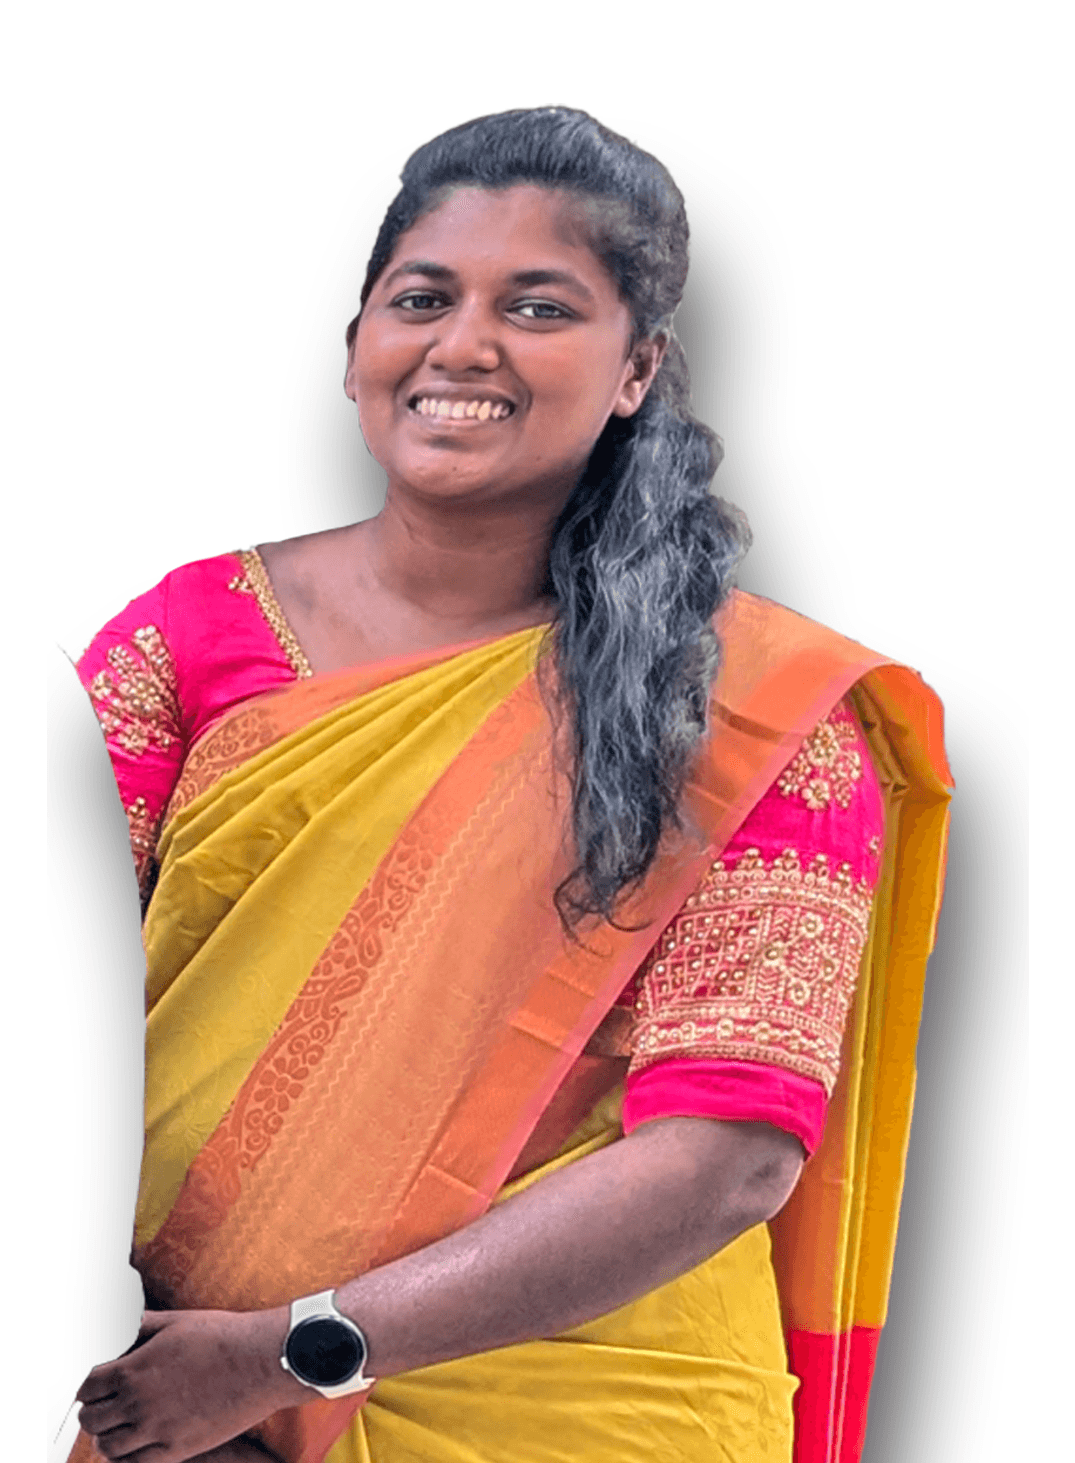
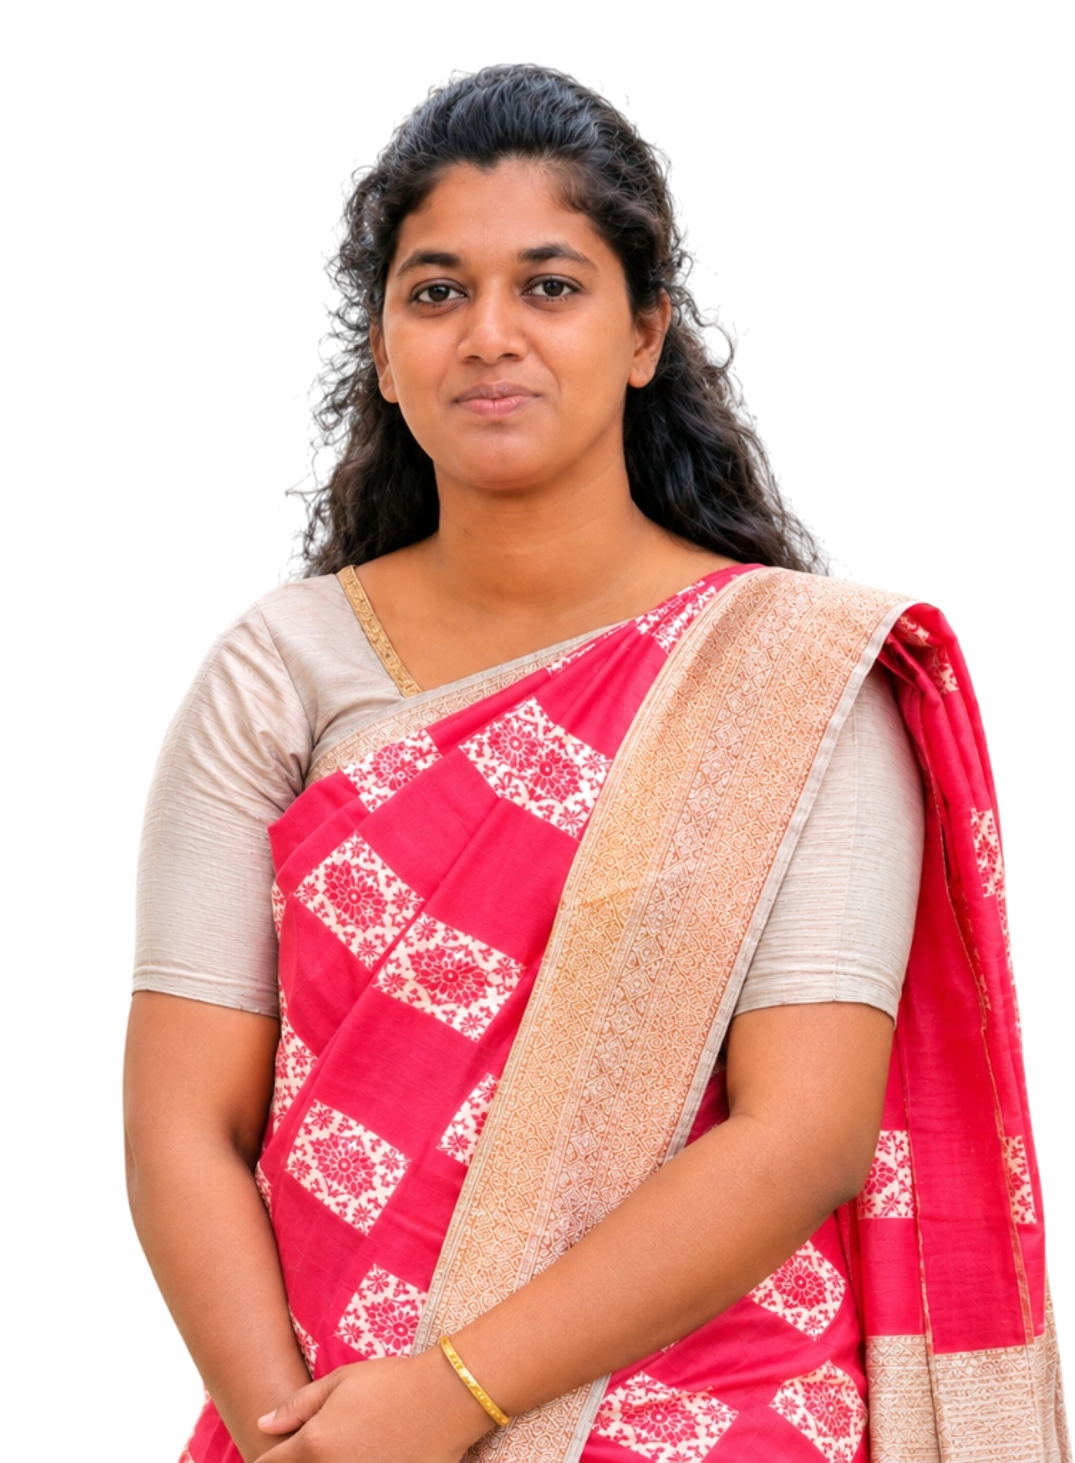
feat: update Jency mobile pastor card with studio portrait and push to Cloudinary

diff --git a/app/components/ThemeProvider.jsx b/app/components/ThemeProvider.jsx
@@ -1,6 +1,6 @@
 "use client";
 
-import { createContext, useContext, useEffect, useState } from "react";
+import { createContext, useContext, useEffect, useState, useRef } from "react";
 
 const ThemeContext = createContext();
 
@@ -9,6 +9,7 @@ export const useTheme = () => useContext(ThemeContext);
 export function ThemeProvider({ children }) {
   const [theme, setTheme] = useState("light");
   const [mounted, setMounted] = useState(false);
+  const isTransitioningRef = useRef(false);
 
   useEffect(() => {
     setMounted(true);
@@ -21,51 +22,6 @@ export function ThemeProvider({ children }) {
     }
   }, []);
 
-  const toggleTheme = (e) => {
-    const newTheme = theme === "light" ? "dark" : "light";
-    
-    // Check for reduced motion
-    const prefersReducedMotion = window.matchMedia("(prefers-reduced-motion: reduce)").matches;
-
-    // View Transitions API
-    if (!prefersReducedMotion && document.startViewTransition) {
-      // Calculate origin from the click event if available
-      const x = e?.clientX ?? window.innerWidth / 2;
-      const y = e?.clientY ?? 20; // fallback near top
-
-      const endRadius = Math.hypot(
-        Math.max(x, window.innerWidth - x),
-        Math.max(y, window.innerHeight - y)
-      );
-
-      const transition = document.startViewTransition(() => {
-        applyTheme(newTheme);
-      });
-
-      transition.ready.then(() => {
-        const isDark = newTheme === "dark";
-        document.documentElement.animate(
-          {
-            clipPath: [
-              `circle(0px at ${x}px ${y}px)`,
-              `circle(${endRadius}px at ${x}px ${y}px)`,
-            ],
-          },
-          {
-            duration: 500,
-            easing: "ease-in-out",
-            pseudoElement: isDark
-              ? "::view-transition-new(root)"
-              : "::view-transition-old(root)",
-          }
-        );
-      });
-    } else {
-      // Fallback
-      applyTheme(newTheme);
-    }
-  };
-
   const applyTheme = (newTheme) => {
     if (newTheme === "dark") {
       document.documentElement.classList.add("dark");
@@ -74,6 +30,102 @@ export function ThemeProvider({ children }) {
     }
     localStorage.setItem("flag-theme", newTheme);
     setTheme(newTheme);
+  };
+
+  const toggleTheme = (e) => {
+    if (isTransitioningRef.current) return;
+    const newTheme = theme === "light" ? "dark" : "light";
+    const isDark = newTheme === "dark";
+    
+    // Check for reduced motion
+    const prefersReducedMotion =
+      typeof window !== "undefined" &&
+      window.matchMedia("(prefers-reduced-motion: reduce)").matches;
+
+    // View Transitions API
+    if (!prefersReducedMotion && typeof document !== "undefined" && document.startViewTransition) {
+      isTransitioningRef.current = true;
+
+      // Calculate origin from the click event or button center
+      let x = window.innerWidth / 2;
+      let y = 20;
+
+      if (e?.clientX !== undefined && e?.clientY !== undefined && (e.clientX !== 0 || e.clientY !== 0)) {
+        x = e.clientX;
+        y = e.clientY;
+      } else if (e?.currentTarget?.getBoundingClientRect) {
+        const rect = e.currentTarget.getBoundingClientRect();
+        x = rect.left + rect.width / 2;
+        y = rect.top + rect.height / 2;
+      }
+
+      // Radius to cover the furthest corner of the viewport
+      const endRadius = Math.hypot(
+        Math.max(x, window.innerWidth - x),
+        Math.max(y, window.innerHeight - y)
+      );
+
+      const transitionClass = isDark
+        ? "theme-transition-to-dark"
+        : "theme-transition-to-light";
+
+      document.documentElement.classList.add(transitionClass);
+
+      try {
+        const transition = document.startViewTransition(() => {
+          applyTheme(newTheme);
+        });
+
+        transition.ready.then(() => {
+          const duration = 520;
+          const easing = "cubic-bezier(0.4, 0, 0.2, 1)";
+
+          if (isDark) {
+            // Light -> Dark: Smooth in-to-out circular expansion from toggle button
+            document.documentElement.animate(
+              {
+                clipPath: [
+                  `circle(0px at ${x}px ${y}px)`,
+                  `circle(${endRadius}px at ${x}px ${y}px)`,
+                ],
+              },
+              {
+                duration,
+                easing,
+                pseudoElement: "::view-transition-new(root)",
+              }
+            );
+          } else {
+            // Dark -> Light: Smooth out-to-in circular contraction into toggle button
+            document.documentElement.animate(
+              {
+                clipPath: [
+                  `circle(${endRadius}px at ${x}px ${y}px)`,
+                  `circle(0px at ${x}px ${y}px)`,
+                ],
+              },
+              {
+                duration,
+                easing,
+                pseudoElement: "::view-transition-old(root)",
+              }
+            );
+          }
+        });
+
+        transition.finished.finally(() => {
+          document.documentElement.classList.remove(transitionClass);
+          isTransitioningRef.current = false;
+        });
+      } catch (err) {
+        document.documentElement.classList.remove(transitionClass);
+        isTransitioningRef.current = false;
+        applyTheme(newTheme);
+      }
+    } else {
+      // Fallback
+      applyTheme(newTheme);
+    }
   };
 
   return (

diff --git a/app/components/HomeHero.jsx b/app/components/HomeHero.jsx
@@ -108,8 +108,8 @@ export default function HomeHero() {
           <Letter3DSwap
             rotateDirection="top"
             staggerDuration={0.025}
-            frontFaceClassName="text-white drop-shadow-[0_4px_16px_rgba(0,0,0,0.95)]"
-            secondFaceClassName="text-[#D9A31A] drop-shadow-[0_4px_20px_rgba(217,163,26,0.6)]"
+            frontFaceClassName="text-white drop-shadow-[0_4px_16px_rgba(0,0,0,0.01)]"
+            secondFaceClassName="text-[#D9A31A] drop-shadow-[0_4px_20px_rgba(217,163,26,0.01)]"
           >
             {word}
           </Letter3DSwap>
@@ -121,9 +121,9 @@ export default function HomeHero() {
   return (
     <div className="absolute left-3.5 sm:left-8 md:left-16 lg:left-20 right-3.5 sm:right-auto bottom-12 sm:bottom-16 md:bottom-12 lg:bottom-14 max-w-2xl lg:max-w-3xl z-10 p-1 sm:p-4 pointer-events-none">
       {/* Main Hero Heading (Fully responsive across all screen sizes with 3D letter swap) */}
-      <h1 ref={containerRef} className="pointer-events-auto text-[1.75rem] xs:text-3xl sm:text-4xl md:text-5xl lg:text-5xl xl:text-6xl text-white font-bold leading-[1.14] sm:leading-[1.12] tracking-tight drop-shadow-[0_4px_16px_rgba(0,0,0,0.95)] select-none">
+      <h1 ref={containerRef} className="pointer-events-auto text-[1.75rem] xs:text-3xl sm:text-4xl md:text-5xl lg:text-5xl xl:text-6xl text-white font-bold leading-[1.14] sm:leading-[1.12] tracking-tight drop-shadow-[0_4px_16px_rgba(0,0,0,0.01)] select-none">
         <div className="mb-0.5 sm:mb-1.5">{renderWords(text1)}</div>
-        <div className={`${playfair.className} font-normal text-white drop-shadow-[0_4px_16px_rgba(0,0,0,0.95)] mb-0.5 sm:mb-1.5 pr-2 sm:pr-4`}>
+        <div className={`${playfair.className} font-normal text-white drop-shadow-[0_4px_16px_rgba(0,0,0,0.01)] mb-0.5 sm:mb-1.5 pr-2 sm:pr-4`}>
           {renderWords(text2, '', true)}
         </div>
         <div>{renderWords(text3)}</div>
@@ -136,10 +136,10 @@ export default function HomeHero() {
             fadeState ? "opacity-100 translate-y-0" : "opacity-0 translate-y-2"
           }`}
         >
-          <p className={`${playfair.className} text-xs sm:text-base md:text-base lg:text-lg text-white/95 leading-relaxed drop-shadow-[0_2px_12px_rgba(0,0,0,0.95)] font-normal italic`}>
+          <p className={`${playfair.className} text-xs sm:text-base md:text-base lg:text-lg text-white/95 leading-relaxed drop-shadow-[0_2px_12px_rgba(0,0,0,0.01)] font-normal italic`}>
             “{currentVerse.verse}”
           </p>
-          <p className="mt-1 text-[11px] sm:text-xs md:text-sm font-sans-clean font-bold tracking-widest text-[#D9A31A] uppercase drop-shadow-[0_2px_8px_rgba(0,0,0,0.95)]">
+          <p className="mt-1 text-[11px] sm:text-xs md:text-sm font-sans-clean font-bold tracking-widest text-[#D9A31A] uppercase drop-shadow-[0_2px_8px_rgba(0,0,0,0.01)]">
             ({currentVerse.reference})
           </p>
         </div>

diff --git a/app/globals.css b/app/globals.css
@@ -61,6 +61,46 @@ body {
   -webkit-text-size-adjust: 100%;
 }
 
+/* ==========================================================================
+   Smooth Theme Switch View Transitions
+   - Light to Dark: Smooth in-to-out circular expansion from toggle button
+   - Dark to Light: Smooth out-to-in circular contraction into toggle button
+   ========================================================================== */
+::view-transition-image-pair(root) {
+  isolation: isolate;
+}
+
+::view-transition-old(root),
+::view-transition-new(root) {
+  animation: none !important;
+  mix-blend-mode: normal !important;
+  display: block;
+}
+
+/* Light to Dark: New dark snapshot on top expanding outward */
+:root.theme-transition-to-dark::view-transition-old(root) {
+  z-index: 1;
+}
+:root.theme-transition-to-dark::view-transition-new(root) {
+  z-index: 9999;
+}
+
+/* Dark to Light: Old dark snapshot on top shrinking inward (out to in) */
+:root.theme-transition-to-light::view-transition-old(root) {
+  z-index: 9999;
+}
+:root.theme-transition-to-light::view-transition-new(root) {
+  z-index: 1;
+}
+
+/* Disable body CSS transitions during clip-path view transition so snapshot is instant */
+:root.theme-transition-to-dark,
+:root.theme-transition-to-dark body,
+:root.theme-transition-to-light,
+:root.theme-transition-to-light body {
+  transition: none !important;
+}
+
 /* Universal responsive media safeguards */
 img,
 svg,

diff --git a/lib/cloudinaryLibrary.js b/lib/cloudinaryLibrary.js
@@ -117,7 +117,7 @@ export const CLOUDINARY_LIBRARY = {
     nagaraj: "https://res.cloudinary.com/hqsoyezk/image/upload/f_auto,q_auto/v1793721330/flagweb/images/paster/nagaraj.png",
     johnson_jemimah: "https://res.cloudinary.com/hqsoyezk/image/upload/f_auto,q_auto/v1793721331/flagweb/images/paster/johnson_jemimah.png",
     jedipheth_jerusha: "https://res.cloudinary.com/hqsoyezk/image/upload/f_auto,q_auto/v1793721332/flagweb/images/paster/jedipheth_jerusha.png",
-    jency: "https://res.cloudinary.com/hqsoyezk/image/upload/f_auto,q_auto/v1793721333/flagweb/images/paster/jency.png",
+    jency: "https://res.cloudinary.com/hqsoyezk/image/upload/f_auto,q_auto/v1793949679/flagweb/images/paster/jency.png",
     machtalin: "https://res.cloudinary.com/hqsoyezk/image/upload/f_auto,q_auto/v1793721334/flagweb/images/paster/machtalin.png",
   },
 
